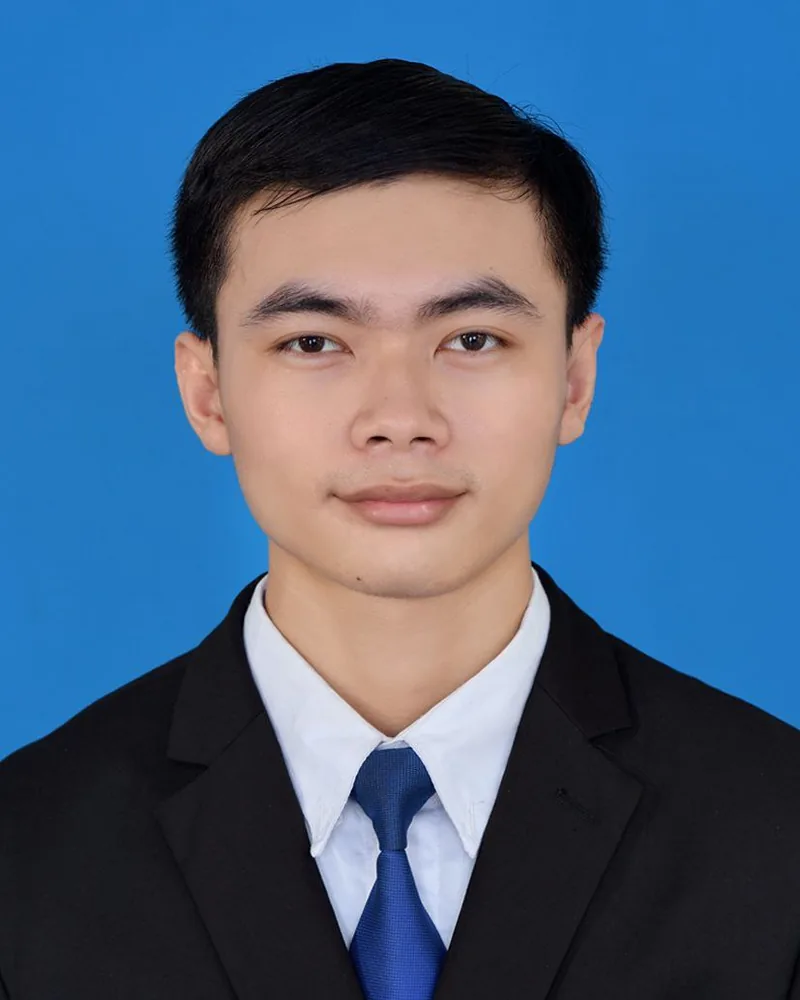
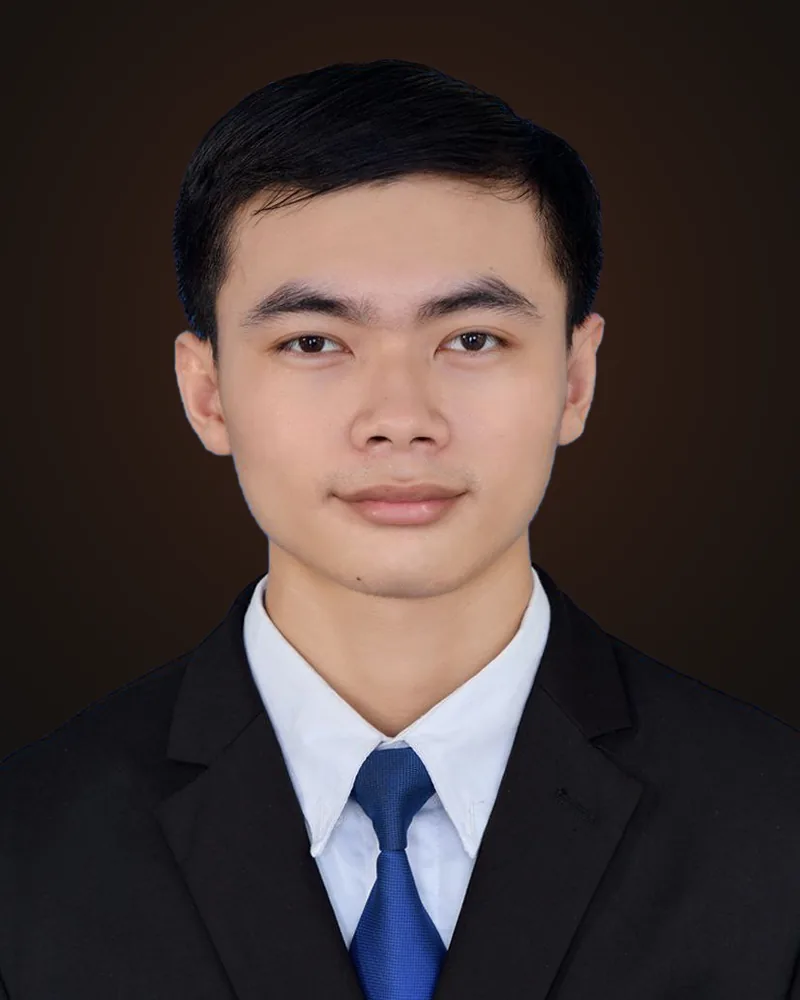
Photo: replace blue studio background with warm dark backdrop, drop greyscale

diff --git a/css/style.css b/css/style.css
@@ -728,9 +728,6 @@ main { counter-reset: section; }
 /* Mouse-only effects (tilt, spotlight) */
 @media (hover: hover) and (pointer: fine) {
   .project-card:is(:hover, .is-tilting)::after { opacity: 1; }
-  /* About photo: slightly grey until hovered */
-  .about__photo img { filter: grayscale(1); transition: filter 400ms var(--ease-out); }
-  .about__photo:hover img { filter: none; }
   .about__photo:hover::before { transform: translate(4px, 4px); }
   .project-card.is-tilting { transition: transform 120ms linear, border-color var(--dur-fast) var(--ease-out); }
 }
@@ -752,7 +749,6 @@ main { counter-reset: section; }
   .project-card:hover, .phone:nth-child(2) { transform: none; }
   .project-card:hover .project-card__media > img { transform: none; }
   .scroll-progress { display: none; }
-  .about__photo img { filter: none; }
 }
 
 /* ===== 9. PRINT ===== */

diff --git a/CLAUDE.md b/CLAUDE.md
@@ -214,7 +214,8 @@ Owner asked for less empty space at the sides on wide screens.
 - Still TODO: role, intro, bio, city, remote, contact sentence, LinkedIn.
 
 ### Update 2026-11-12: About photo frame
-- Solid orange block behind the photo → 1px orange outline offset 12px (`.about__photo::before`). Mouse users: photo fully greyscale until hover (was 30%), so the bright blue ID-photo background no longer fights the orange. Touch devices still see full colour. CSS 29,858 bytes.
+- Solid orange block behind the photo → 1px orange outline offset 12px (`.about__photo::before`).
+- Owner did not want greyscale. Instead the blue studio background was replaced (colour key + edge despill, numpy/scipy, script was in the session scratchpad) with a warm dark backdrop (#161311 + faint orange glow behind the head). `me.webp` and `me-avatar.webp` re-made from the original jpg; the greyscale CSS was removed. Photo is full colour everywhere.
 
 ### Note about the earlier session
 Another agent session worked on this repo until 13:39 (commits up to f854a43) from the OLD DESIGN.md (RielTrack/FileShift). Commit 049de5c replaced its `index.html`, `css/style.css`, `js/main.js` with the new-spec build. Its one small JS fix (stop the demo video on Esc via the dialog `cancel` event) was ported.
